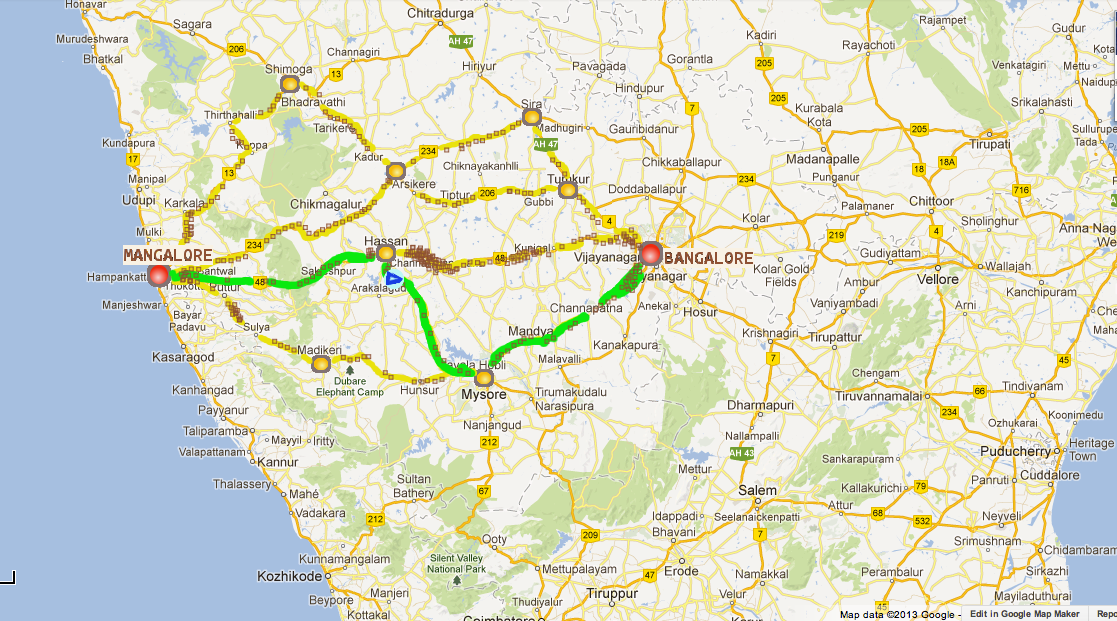
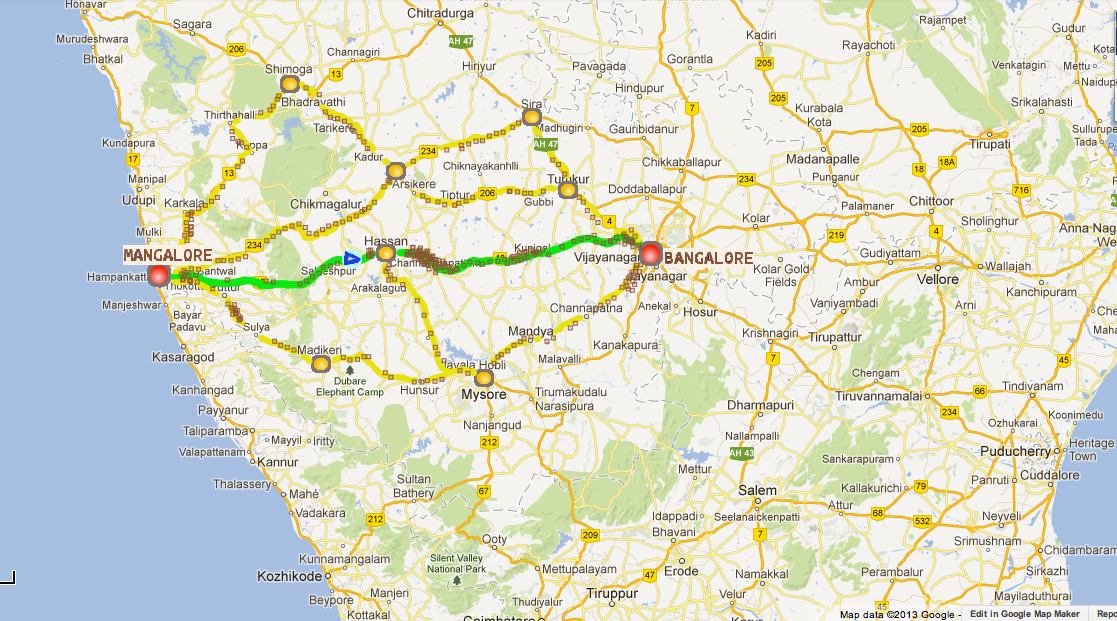
added more files

diff --git a/navigate/nav.js b/navigate/nav.js
@@ -1,13 +1,15 @@
 ROUTE=0
-MAX_ROUTES=8
+MAX_ROUTES=13
 MESSAGE_TIME=5000
 ROUTE_INTERVAL=3500
 MAIN_MESSAGE="Navigation from Mangalore to Bangalore"
-var routes={'1':['598Km','60kmph','7hr 3min','2hr 5min','-1'],'2':['598Km','60kmph','7hr 3min','2hr 5min','-1'],'3':['598Km','60kmph','7hr 3min','2hr 5min','-1'],'4':['598Km','60kmph','7hr 3min','2hr 5min','1'],'5':['598Km','60kmph','7hr 3min','2hr 5min','-1'],'6':['598Km','60kmph','7hr 3min','2hr 5min','-1'],'7':['598Km','60kmph','7hr 3min','2hr 5min','-1'],'8':['598Km','60kmph','7hr 3min','2hr 5min','-1']}
-var message={'1':'route has been changed considering traffic conditions'}
+var routes={'1':['346Km','60kmph','7hr 3min','0hr 0min','-1'],'2':['302Km','58kmph','6hr 12min','1hr 5min','-1'],'3':['271Km','60kmph','5hr 12min','2hr 5min','1'],'4':['230Km','50kmph','4hr 3min','2hr 53min','1'],'5':['190Km','62kmph','4hr 31min','3hr 15min','3'],'6':['173Km','60kmph','4hr 0min','4hr 0min','1'],'7':['150Km','75kmph','3hr 37min','4hr 25min','-1'],'8':['132Km','60kmph','3hr 3min','5hr 0min','-1'],'9':['111Km','51kmph','2hr 22min','5hr 45min','2'],'10':['99Km','60kmph','2hr 3min','6hr 5min','-1'],'11':['54Km','60kmph','1hr 3min','6hr 35min','-1'],'12':['22Km','71kmph','0hr 33min','7hr 5min','-1'],'13':['0Km','60kmph','0hr 0min','7hr 25min','-1']}
+var message={'1':'Route has been changed considering traffic conditions','2':'Mysore has been reached','3':'Hassan has been reached'}
 function start(){
     $("#map").wheelzoom({zoom:0.05});
     $("#prompt").fadeOut(100);
+    $("#help").fadeOut(100);
+    $("#info_bar").fadeIn(100);
     $("#message").html(MAIN_MESSAGE);
     $("#message").slideDown(300);
     next_route();
@@ -40,7 +42,8 @@ function next_route(){
     $("#time_remaining").html(routes[ROUTE][3]);
     if(parseInt(routes[ROUTE][4])>0){
         show_message(message[routes[ROUTE][4]]);
-        document.getElementById("route").play();
+        if(parseInt(routes[ROUTE][4])==1)
+            document.getElementById("route").play();
     }
     else
         setTimeout("next_route();",ROUTE_INTERVAL);

diff --git a/navigate/index.htm b/navigate/index.htm
@@ -25,6 +25,26 @@
                 <tr><td><span style="color:white">Time Elapsed:</span><span id="time_elapsed">1hr 5min</span></td></tr>
             </table>
         </div>
+        <div id="help">
+            <table class="table">
+                <tr>
+                    <td><img src="srcDest.png" /></td>
+                    <td><img src="chkPt.png" /></td>
+                    <td><img src="currentLocation.png" /></td>
+                    <td><img src="bestPath.png" /></td>
+                    <td><img src="otherPath.png" /></td>
+                    <td><img src="traffic.png" /></td>
+                </tr>
+                <tr>
+                    <td>Source/Destination</td>
+                    <td>Checkpoint</td>
+                    <td>Current Location</td>
+                    <td>Best Route</td>
+                    <td>Other Routes</td>
+                    <td>Traffic Density</td>
+                </tr>
+            </table>
+        </div>
     </div>
     <div id="prompt">
         <br />
@@ -49,6 +69,11 @@
     <img src="http://localhost/hci/navigate/6.png" />
     <img src="http://localhost/hci/navigate/7.png" />
     <img src="http://localhost/hci/navigate/8.png" />
+    <img src="http://localhost/hci/navigate/9.png" />
+    <img src="http://localhost/hci/navigate/10.png" />
+    <img src="http://localhost/hci/navigate/11.png" />
+    <img src="http://localhost/hci/navigate/12.png" />
+    <img src="http://localhost/hci/navigate/13.png" />
     <audio id='dest' style='display:none;' src='dest.ogg'>
     <audio id='route' style='display:none;' src='route.ogg'>
     <audio id='welcome' style='display:none;' src='welcome.ogg'>

diff --git a/navigate/style.css b/navigate/style.css
@@ -47,6 +47,16 @@ body{
 #home #info_bar table td{
     padding:5px;
 }
+#help{
+    position:relative;
+    top:-600px;
+    color:rgb(0, 204, 255);
+    background:#333;
+    font-size:1.5em;
+    font-weight:bold;
+    padding:35px;
+    opacity:0.7;
+}
 .timer{
     font-size:3em;
 }
@@ -188,6 +198,8 @@ body{
 }
 .btn{
     box-shadow: 5px 5px 35px black;
+    font-family:ubuntu,arial;
+    font-weight:bold;
 }
 #dial_holder{
     background:#000;

diff --git a/navigate/script.js b/navigate/script.js
@@ -4,6 +4,7 @@ function init(){
 
     $("#message").slideUp(0);
     $("#end").fadeOut(0);
+    $("#info_bar").fadeOut(0);
     document.getElementById("welcome").play();
     /*$('#rect').draggable();
     $('#rect').resizable();
